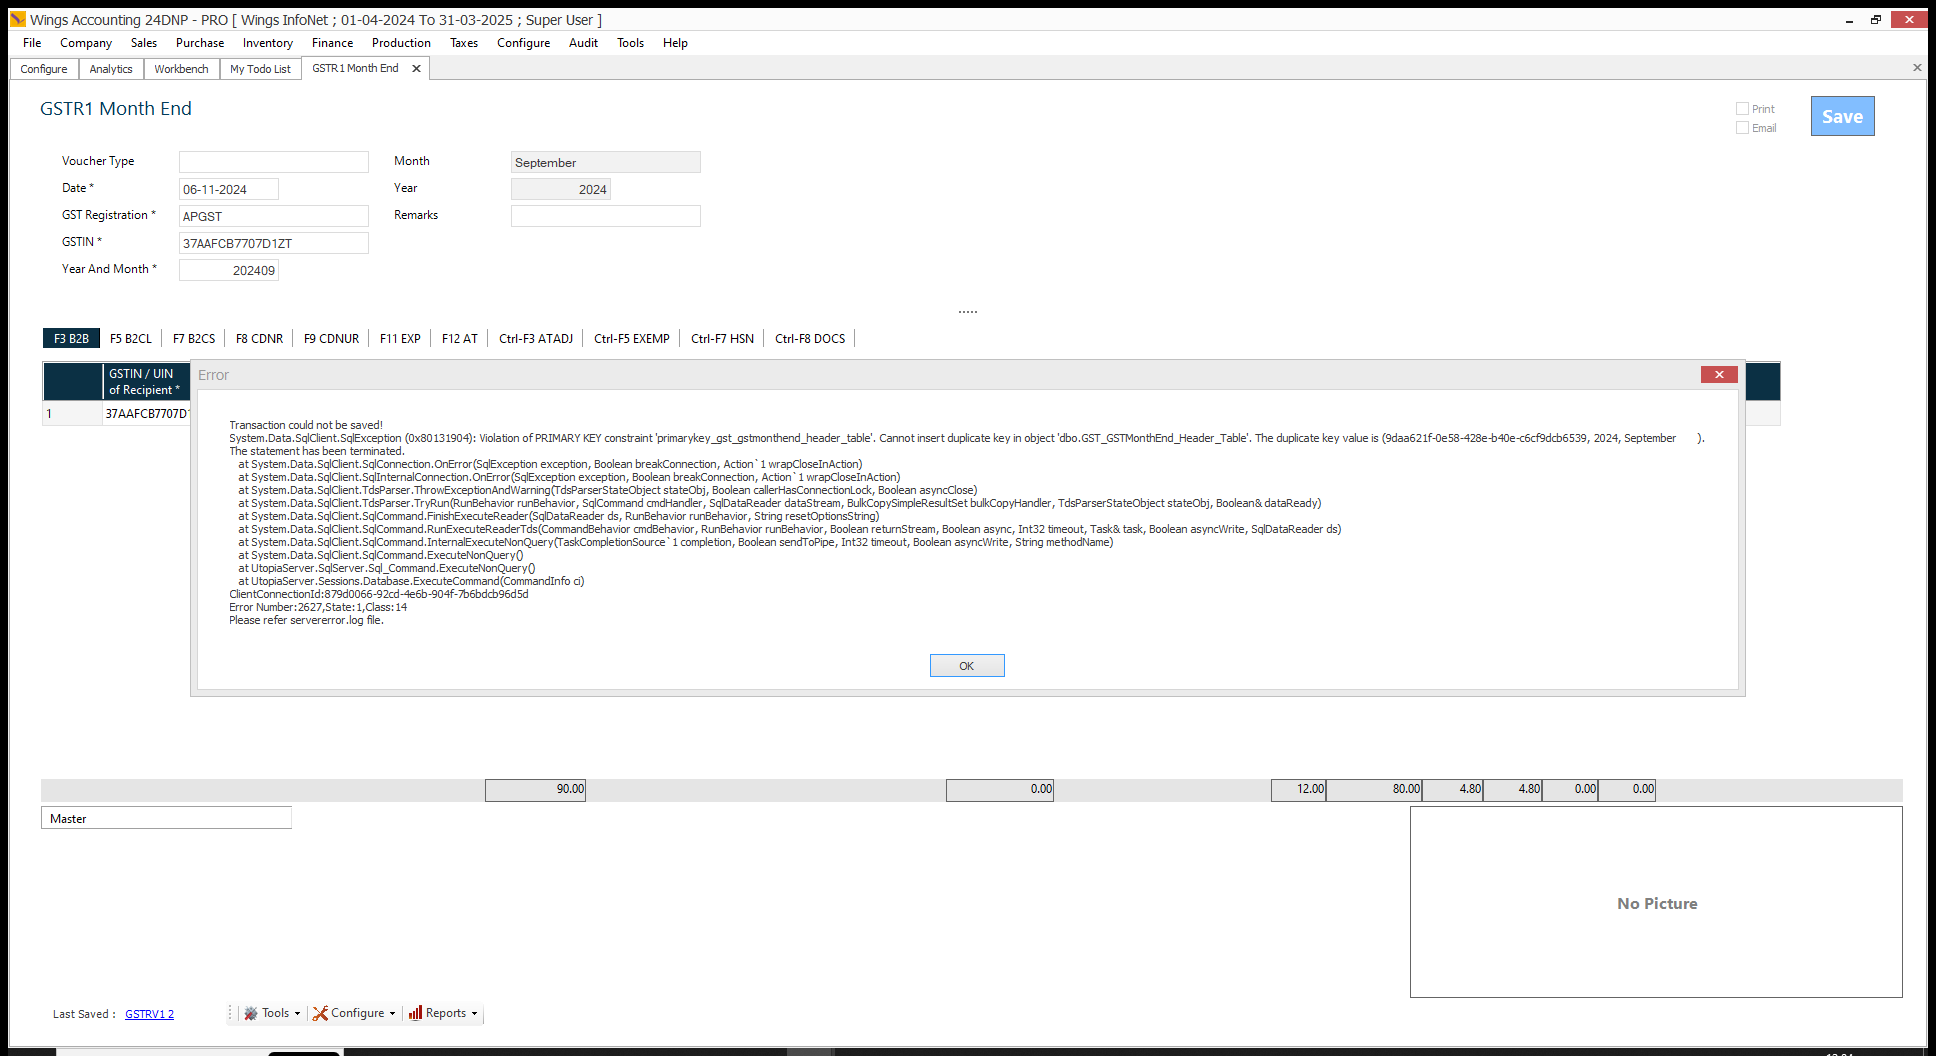
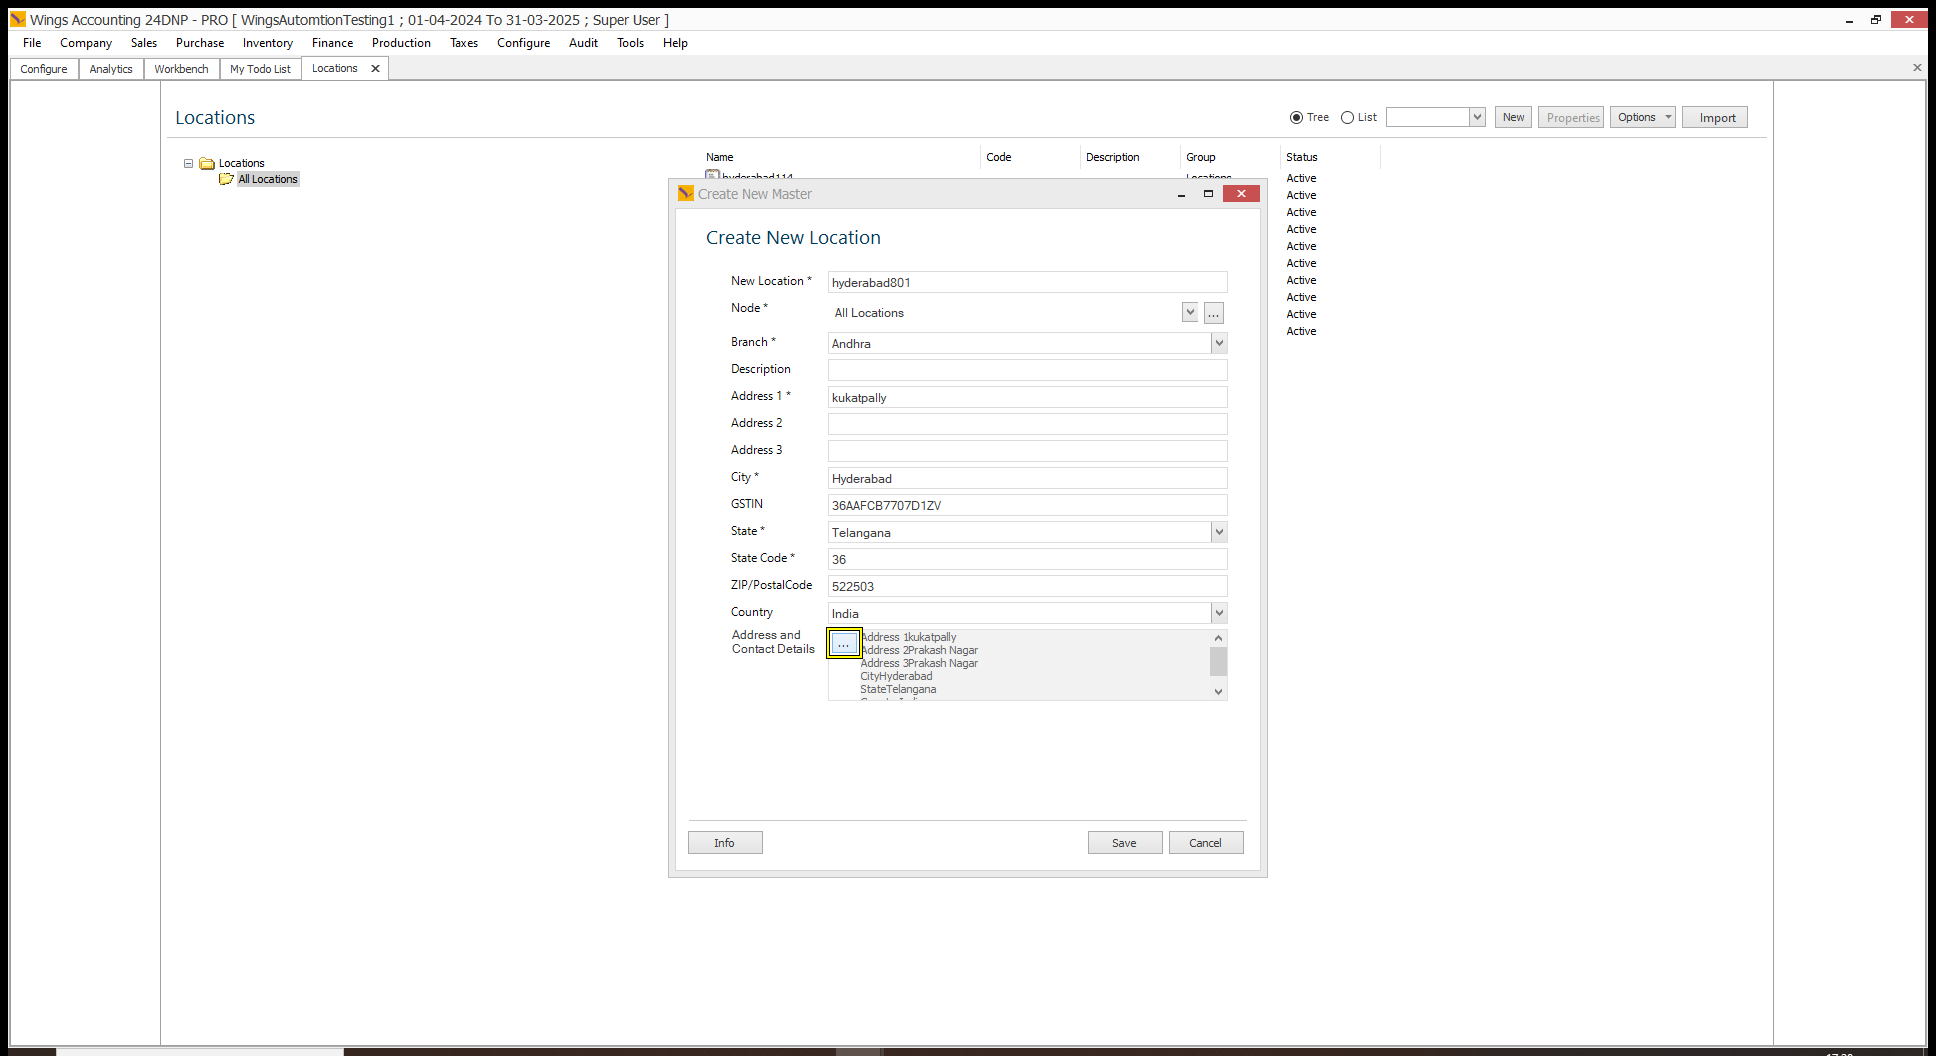
changes in finance

diff --git a/src/main/java/com/wings/pages/finance/transactions/Payments/CashTransfer.java b/src/main/java/com/wings/pages/finance/transactions/Payments/CashTransfer.java
@@ -40,7 +40,7 @@ public class CashTransfer extends Transaction {
         selectOptionalMaster(common.getData(dataFile,"remarks"),"xpath","//Edit[@Name='Remarks']");
         //f3-items
         Thread.sleep(5000);
-        super.enterData("xpath", "//Edit[@Name='Cash A/c Code Row 0, Not sorted.']", dataFile, "from");
+        enterData("xpath", "//Edit[@Name='Cash A/c Code Row 0, Not sorted.']", dataFile, "from");
         Thread.sleep(1000);
         common.inputText("xpath", "//Edit[@Name='Amount * Row 0, Not sorted.']", common.getData(dataFile, "amount"));
         Thread.sleep(1000);
@@ -50,6 +50,6 @@ public class CashTransfer extends Transaction {
        //save
         transactionSave();
         lastTransactionName();
-        transactionClose(common.getData(dataFile,"close"));
+//        transactionClose(common.getData(dataFile,"close"));
     }
 }

diff --git a/src/main/java/com/wings/pages/finance/transactions/Payments/PaymentToParties.java b/src/main/java/com/wings/pages/finance/transactions/Payments/PaymentToParties.java
@@ -58,7 +58,7 @@ public class PaymentToParties extends Transaction {
         System.out.println(finalAmount);
         //navigate back to f3-items and enter amount
         Thread.sleep(2000);
-        common.clickElement("xpath", "//TabItem[@Name='  F3 Cash  ']");
+        navigateToCashTab();
         List<WebElement> amount = common.findWebElements("xpath", "//Edit[@Name='Amount * Row 0, Not sorted.']");
         for (WebElement i : amount) {
             i.click();
@@ -67,6 +67,6 @@ public class PaymentToParties extends Transaction {
         //save
         transactionSave();
         lastTransactionName();
-        transactionClose(common.getData(dataFile,"close"));
+//        transactionClose(common.getData(dataFile,"close"));
     }
 }

diff --git a/src/main/java/com/wings/pages/finance/transactions/Receipts/ReceiptsFromParties.java b/src/main/java/com/wings/pages/finance/transactions/Receipts/ReceiptsFromParties.java
@@ -58,7 +58,7 @@ public class ReceiptsFromParties extends Transaction {
         navigateToBillsReceivablesTab();
         finalAmount=super.singleCheckBoxSelection("xpath","//Table[@Name='BillsReceivable']/*[starts-with(@Name,'Row')]","//Edit[starts-with(@Name,'Towards VNo *')]");
         //enter into amount in f3
-        common.clickElement("xpath","//TabItem[@Name='  F3 Cash  ']");
+        navigateToCashTab();
         List<WebElement> amount = common.findWebElements("xpath", "//Edit[@Name='Amount * Row 0, Not sorted.']");
         System.out.println("Size :" + amount.size());
         for (WebElement i : amount) {

diff --git a/src/test/java/menuItems/company/masters/TermsMaster.java b/src/test/java/menuItems/company/masters/TermsMaster.java
@@ -1,6 +1,5 @@
 package menuItems.company.masters;
 
-import com.wings.pages.company.masters.Project;
 import com.wings.pages.company.masters.Terms;
 import com.wings.pages.AppLogin;
 import io.appium.java_client.windows.WindowsDriver;
@@ -15,7 +14,6 @@ import java.io.IOException;
 public class TermsMaster {
     WindowsDriver driver;
     AppLogin appLogin=new AppLogin();
-    Project project;
     String file="./src/main/resources/MenuItems/Company/Masters/TermsData.json";
 
     @BeforeTest

diff --git a/src/main/java/com/wings/pages/finance/transactions/Payments/CashPayments.java b/src/main/java/com/wings/pages/finance/transactions/Payments/CashPayments.java
@@ -63,6 +63,6 @@ public class CashPayments extends Transaction {
             //save
             transactionSave();
             lastTransactionName();
-            transactionClose(common.getData(dataFile,"close"));
+//            transactionClose(common.getData(dataFile,"close"));
         }
     }

diff --git a/src/main/java/com/wings/pages/finance/transactions/Payments/BankPayment.java b/src/main/java/com/wings/pages/finance/transactions/Payments/BankPayment.java
@@ -58,6 +58,6 @@ public class BankPayment extends Transaction {
             //save
             transactionSave();
             lastTransactionName();
-            transactionClose(common.getData(dataFile,"close"));
+//            transactionClose(common.getData(dataFile,"close"));
         }
     }

diff --git a/src/main/java/com/wings/pages/finance/transactions/Receipts/ReceiptsFromCreditCardCompanies.java b/src/main/java/com/wings/pages/finance/transactions/Receipts/ReceiptsFromCreditCardCompanies.java
@@ -63,6 +63,6 @@ public class ReceiptsFromCreditCardCompanies extends Transaction {
         //save
         transactionSave();
         lastTransactionName();
-        transactionClose(common.getData(dataFile,"close"));
+//        transactionClose(common.getData(dataFile,"close"));
     }
 }

diff --git a/src/main/java/com/wings/pages/finance/transactions/Receipts/CreditCardReceipts.java b/src/main/java/com/wings/pages/finance/transactions/Receipts/CreditCardReceipts.java
@@ -66,6 +66,6 @@ public class CreditCardReceipts extends Transaction {
         //save
         transactionSave();
         lastTransactionName();
-        transactionClose(common.getData(dataFile,"close"));
+//        transactionClose(common.getData(dataFile,"close"));
     }
 }

diff --git a/src/main/java/com/wings/pages/finance/transactions/Receipts/BankReceipts.java b/src/main/java/com/wings/pages/finance/transactions/Receipts/BankReceipts.java
@@ -69,6 +69,6 @@ public class BankReceipts extends Transaction {
         //save
         transactionSave();
         lastTransactionName();
-        transactionClose(common.getData(dataFile,"close"));
+//        transactionClose(common.getData(dataFile,"close"));
     }
 }

diff --git a/src/main/java/com/wings/pages/finance/transactions/Receipts/CashReceipts.java b/src/main/java/com/wings/pages/finance/transactions/Receipts/CashReceipts.java
@@ -65,6 +65,6 @@ public class CashReceipts extends Transaction {
         //save
         transactionSave();
         lastTransactionName();
-        transactionClose(common.getData(dataFile,"close"));
+//        transactionClose(common.getData(dataFile,"close"));
     }
 }

diff --git a/src/main/java/com/wings/pages/Transaction.java b/src/main/java/com/wings/pages/Transaction.java
@@ -8,7 +8,6 @@ import org.openqa.selenium.WebElement;
 import org.openqa.selenium.interactions.Actions;
 import org.testng.Assert;
 import com.wings.utils.Common;
-import sun.security.mscapi.CPublicKey;
 
 import java.io.IOException;
 import java.util.List;
